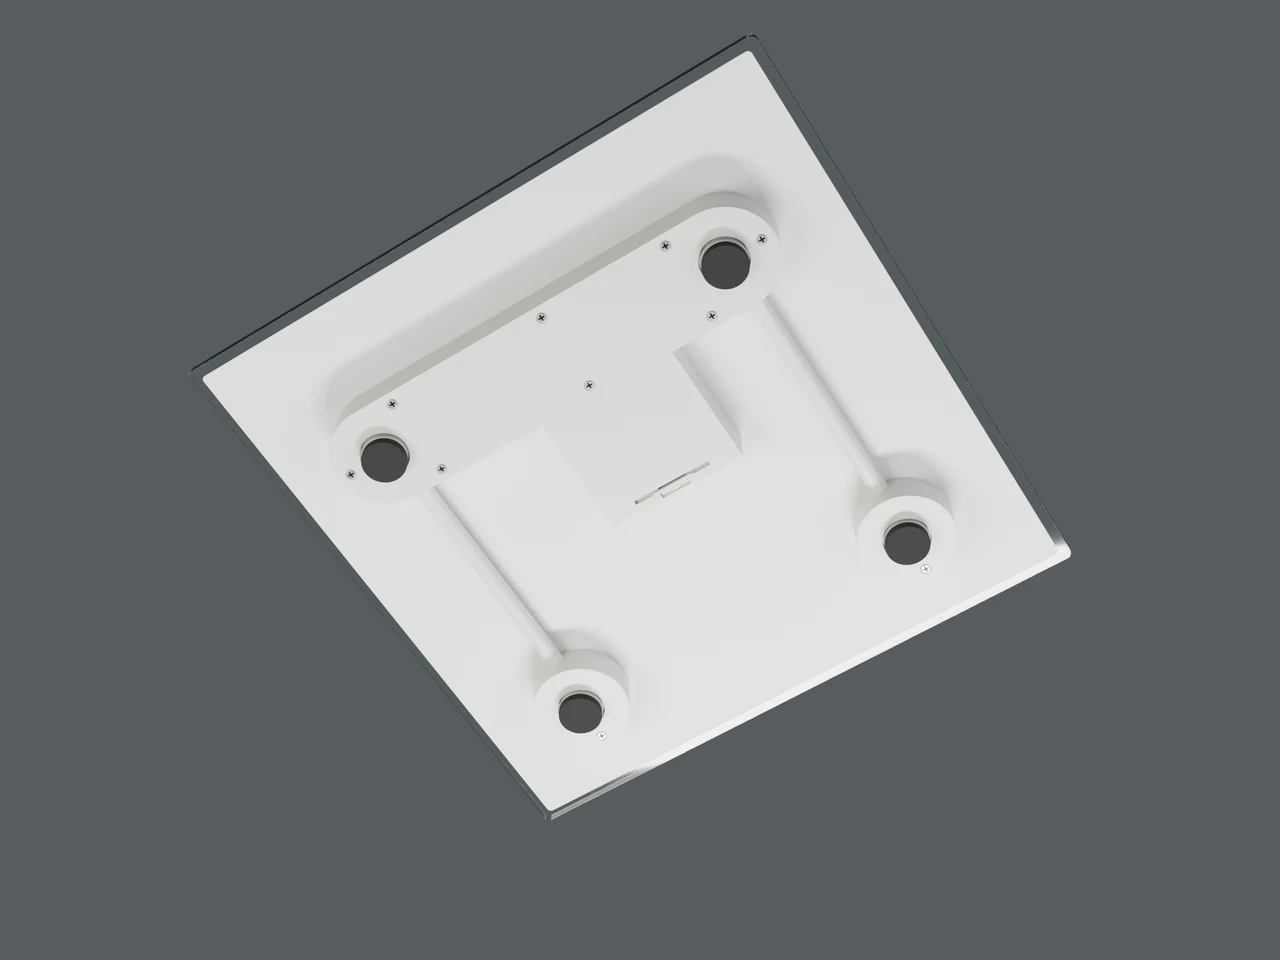
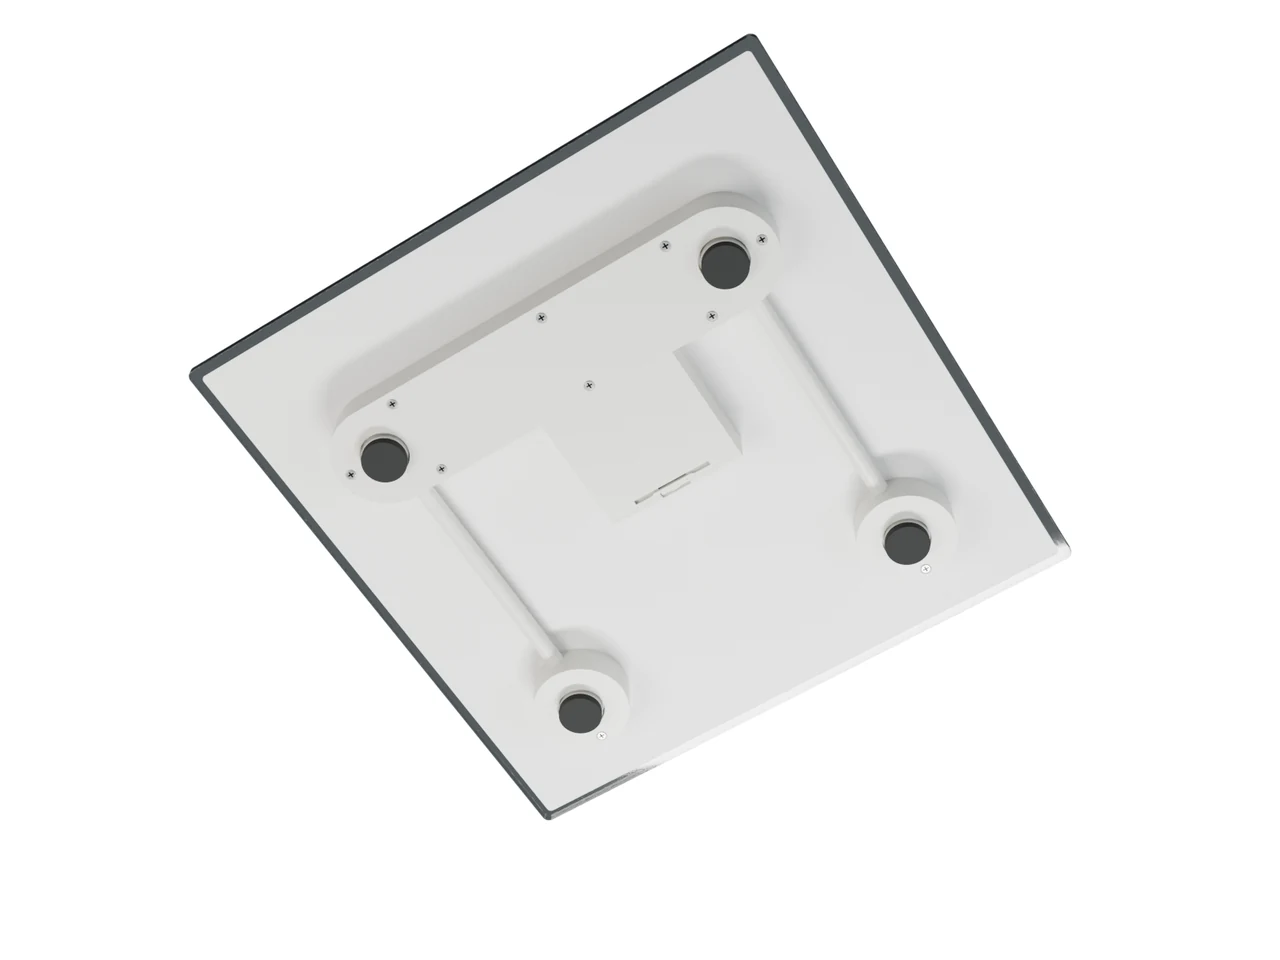
Uniformiza fotos do produto em branco e adiciona botões magnéticos

diff --git a/src/styles/product.css b/src/styles/product.css
@@ -10,7 +10,7 @@
 .produto__cabecalho strong { color: var(--linho); }
 .produto__explorador { display: grid; grid-template-columns: minmax(0, 1.35fr) minmax(0, 1fr); gap: 24px; align-items: start; }
 .produto__vista { position: relative; border-radius: var(--raio-estela); background: var(--nilo); }
-.produto__principal { margin: 0; overflow: hidden; border-radius: inherit; border: 1px solid rgb(217 164 65 / .45); }
+.produto__principal { margin: 0; overflow: hidden; border-radius: inherit; border: 1px solid rgb(217 164 65 / .45); background: #fff; }
 .produto__principal img { width: 100%; aspect-ratio: 4 / 3; }
 .produto__linhas { position: absolute; inset: 0; width: 100%; height: 100%; pointer-events: none; stroke: #8c631e; stroke-width: 1.5; }
 .produto__linhas g { opacity: .45; }
@@ -26,7 +26,7 @@
 .produto__detalhes { min-width: 0; }
 .produto__painel { margin: 0; }
 .produto__painel[hidden] { display: none; }
-.produto__foto { height: clamp(140px, 22svh, 230px); display: grid; place-items: center; overflow: hidden; background: #b0b1ae; border: 1px solid rgb(217 164 65 / .35); border-radius: 18px 18px 3px 3px; }
+.produto__foto { height: clamp(140px, 22svh, 230px); display: grid; place-items: center; overflow: hidden; background: #fff; border: 1px solid rgb(217 164 65 / .35); border-radius: 18px 18px 3px 3px; }
 .produto__foto img { width: 100%; height: 100%; min-height: 0; object-fit: contain; }
 .produto__texto { padding: 14px 0 0 16px; border-left: 2px solid var(--ouro); min-height: 222px; }
 .produto__rotulo { display: flex; align-items: center; gap: 8px; font: 700 .65rem/1.6 var(--mono); letter-spacing: .08em; text-transform: uppercase; color: var(--ouro); }
@@ -41,6 +41,13 @@
 .produto__legenda { margin-top: 8px; font-size: .76rem; color: var(--linho-70); }
 .js .produto__vista { opacity: 0; transform: translateY(40px); transition: opacity .8s var(--ease), transform 1s var(--ease); }
 .js .produto.is-dentro .produto__vista, .js .produto__vista:focus-within { opacity: 1; transform: none; }
+@media (min-width: 761px) and (hover: hover) and (pointer: fine) {
+  .produto__ponto { transition: transform .18s var(--ease-out), box-shadow .18s ease, filter .18s ease; }
+  .produto__ponto:hover { box-shadow: 0 6px 18px rgb(11 31 42 / .3), 0 0 0 2px rgb(217 164 65 / .55); filter: brightness(1.12); }
+}
+@media (min-width: 761px) and (hover: hover) and (pointer: fine) and (prefers-reduced-motion: no-preference) {
+  .produto__ponto { transform: translate(var(--pull-x, 0px), var(--pull-y, 0px)); }
+}
 @media (max-width: 760px) {
   .produto { padding: 96px 16px; }
   .produto__conteudo { max-width: 520px; }

diff --git a/src/ui/product.js b/src/ui/product.js
@@ -2,6 +2,13 @@ export function initProduct() {
   const product = document.getElementById('produto');
   const tabs = [...product.querySelectorAll('[role="tab"]')];
   const panels = [...product.querySelectorAll('[role="tabpanel"]')];
+  const magnetic = matchMedia('(min-width: 761px) and (hover: hover) and (pointer: fine) and (prefers-reduced-motion: no-preference)');
+
+  function resetMagnet(tab) {
+    tab.style.removeProperty('--pull-x');
+    tab.style.removeProperty('--pull-y');
+  }
+  magnetic.addEventListener('change', () => tabs.forEach(resetMagnet));
 
   function select(tab) {
     for (const button of tabs) {
@@ -16,8 +23,24 @@ export function initProduct() {
   if (matchMedia('(min-width: 761px)').matches) select(tabs[1]);
 
   for (const [index, tab] of tabs.entries()) {
+    let center = null;
+    tab.addEventListener('pointerenter', event => {
+      if (!magnetic.matches || event.pointerType !== 'mouse') return;
+      const r = tab.getBoundingClientRect();
+      center = { x: r.left + r.width / 2, y: r.top + r.height / 2 };
+    });
+    tab.addEventListener('pointermove', event => {
+      if (!center || !magnetic.matches || event.pointerType !== 'mouse') return;
+      tab.style.setProperty('--pull-x', `${Math.max(-8, Math.min(8, (event.clientX - center.x) * .18))}px`);
+      tab.style.setProperty('--pull-y', `${Math.max(-5, Math.min(5, (event.clientY - center.y) * .18))}px`);
+    }, { passive: true });
+    for (const event of ['pointerleave', 'pointercancel', 'blur']) tab.addEventListener(event, () => {
+      center = null;
+      resetMagnet(tab);
+    });
     tab.addEventListener('click', () => select(tab));
     tab.addEventListener('keydown', (event) => {
+      resetMagnet(tab);
       let next;
       if (event.key === 'ArrowRight') next = (index + 1) % tabs.length;
       else if (event.key === 'ArrowLeft') next = (index + tabs.length - 1) % tabs.length;

diff --git a/scripts/prepare-product-images.py b/scripts/prepare-product-images.py
@@ -1,4 +1,4 @@
-"""Resize the approved Blender renders for the product section. Requires Pillow."""
+"""Export Blender renders on white, matching the responsive product stage. Requires Pillow."""
 import sys
 from pathlib import Path
 from PIL import Image
@@ -15,8 +15,11 @@ assert all((source / name).is_file() for name in renders.values()), 'Missing app
 target.mkdir(parents=True, exist_ok=True)
 for name, original in renders.items():
     with Image.open(source / original) as image:
+        white = Image.new('RGBA', image.size, 'white')
+        white.alpha_composite(image.convert('RGBA'))
+        image = white.convert('RGB')
         for width in (640, 1280):
-            resized = image.convert('RGB').resize((width, round(image.height * width / image.width)), Image.Resampling.LANCZOS)
+            resized = image.resize((width, round(image.height * width / image.width)), Image.Resampling.LANCZOS)
             path = target / f'{name}-{width}.webp'
             resized.save(path, 'WEBP', quality=88, method=6)
             with Image.open(path) as check:

diff --git a/docs/QA-PRODUTO-2026-11-08.md b/docs/QA-PRODUTO-2026-11-08.md
@@ -9,6 +9,11 @@ Esta é uma validação física relatada pelo usuário, sem medição instrument
 Ela confirma a seção Produto publicada e substitui a pendência de teste físico daquela versão.
 Os ajustes de enquadramento descritos abaixo são posteriores a essa confirmação.
 
+Após a publicação de `e0b15a9`, o usuário testou novamente no iPhone e confirmou:
+**“os menus estão bem centralizados e continua fluido.”** Essa segunda validação física
+confirma também o enquadramento dos menus. As mudanças de fundo das imagens e o efeito
+magnético nos botões de desktop foram pedidos depois dela.
+
 ## Entrega
 
 A seção `#produto` fica entre O problema e Como funciona. O menu principal, o menu móvel
@@ -111,6 +116,41 @@ Comparação de altura do conteúdo, não do segmento de rolagem da animação:
 | Como funciona no celular | 827 px | 550 px | 390 × 664 |
 | WhatsApp no celular | 856 px | 554 px | 390 × 664 |
 | Perguntas no celular, fechadas | 695 px | 542 px | 390 × 664 |
+
+## Fundo branco e botões magnéticos
+
+Atualização solicitada após a segunda confirmação do usuário no iPhone:
+
+- Todos os renders, incluindo os quatro pés, foram exportados novamente das cenas originais
+  do Blender, com fundo branco. Geometria, orientação, câmera, adesivo, quatro pés e LED
+  preservados. As cenas antigas continuam salvas separadamente.
+- O fundo branco da imagem continua no retângulo branco da interface. `object-fit: contain`
+  mantém o enquadramento completo, sem esticar ou cortar o produto, em qualquer proporção
+  do retângulo. As sombras de contato continuam presentes.
+- O efeito magnético só funciona com mouse, em largura acima de 760 px e sem preferência
+  por movimento reduzido. Deslocamento limitado a 8 px na horizontal e 5 px na vertical,
+  com retorno ao sair, perder foco ou cancelar o ponteiro. O hover também realça o contorno.
+- Nenhum loop de animação ou dependência nova. Teclado, toque, seleção dos detalhes e
+  movimento reduzido mantidos. O efeito não muda a posição dos textos nem o tamanho da seção.
+
+Tamanhos atuais em bytes, mantendo WebP com qualidade 88 e carregamento adiado:
+
+| Render | 640 px | 1280 px |
+|---|---:|---:|
+| Perspectiva | 5.742 | 14.526 |
+| Quatro pés, fundo branco | 8.022 | 17.774 |
+| Frente | 3.512 | 8.392 |
+| LED | 6.988 | 16.022 |
+
+As quatro versões maiores somam **56.714 bytes**, contra 59.890 bytes antes.
+`scripts/prepare-product-images.py` compõe o fundo branco na exportação das imagens com alpha;
+somente os WebPs entram no repositório público. O projeto Blender e os PNGs ficam locais.
+O teste `scripts/check-product.mjs` também confere o deslocamento limitado do magnetismo,
+desativação com movimento reduzido/toque, fundo branco e enquadramento sem recorte.
+Evidências desta etapa em `.qa/product-white/`.
+Build, dois testes de publicação e teste do Produto aprovados em Chrome e WebKit
+(visitas fria/com cache). Os quatro detalhes permanecem acessíveis; a travessia do
+nilômetro completou sem tela preta ou fallback. Capturas desktop/móvel revisadas.
 
 ## Reproduzir
 

diff --git a/docs/HANDOFF.md b/docs/HANDOFF.md
@@ -1,5 +1,12 @@
 # Passagem de bastão: site do Nilo
 
+## Nova confirmação no iPhone
+
+O usuário aprovou `e0b15a9` no aparelho: menus bem centralizados e site ainda fluido.
+Depois pediu magnetismo ao passar o mouse nos botões sobre a imagem do Produto e fundo
+branco contínuo em todas as fotos, incluindo a dos quatro pés. Preservar o retângulo,
+todos os detalhes e as proporções do produto, sem cortar ou esticar as imagens.
+
 ## Validação e enquadramento em 08/11/2026
 
 Usuário confirmou a seção Produto de `5c71d6f` no iPhone: “ficou bom, está fluido”.
